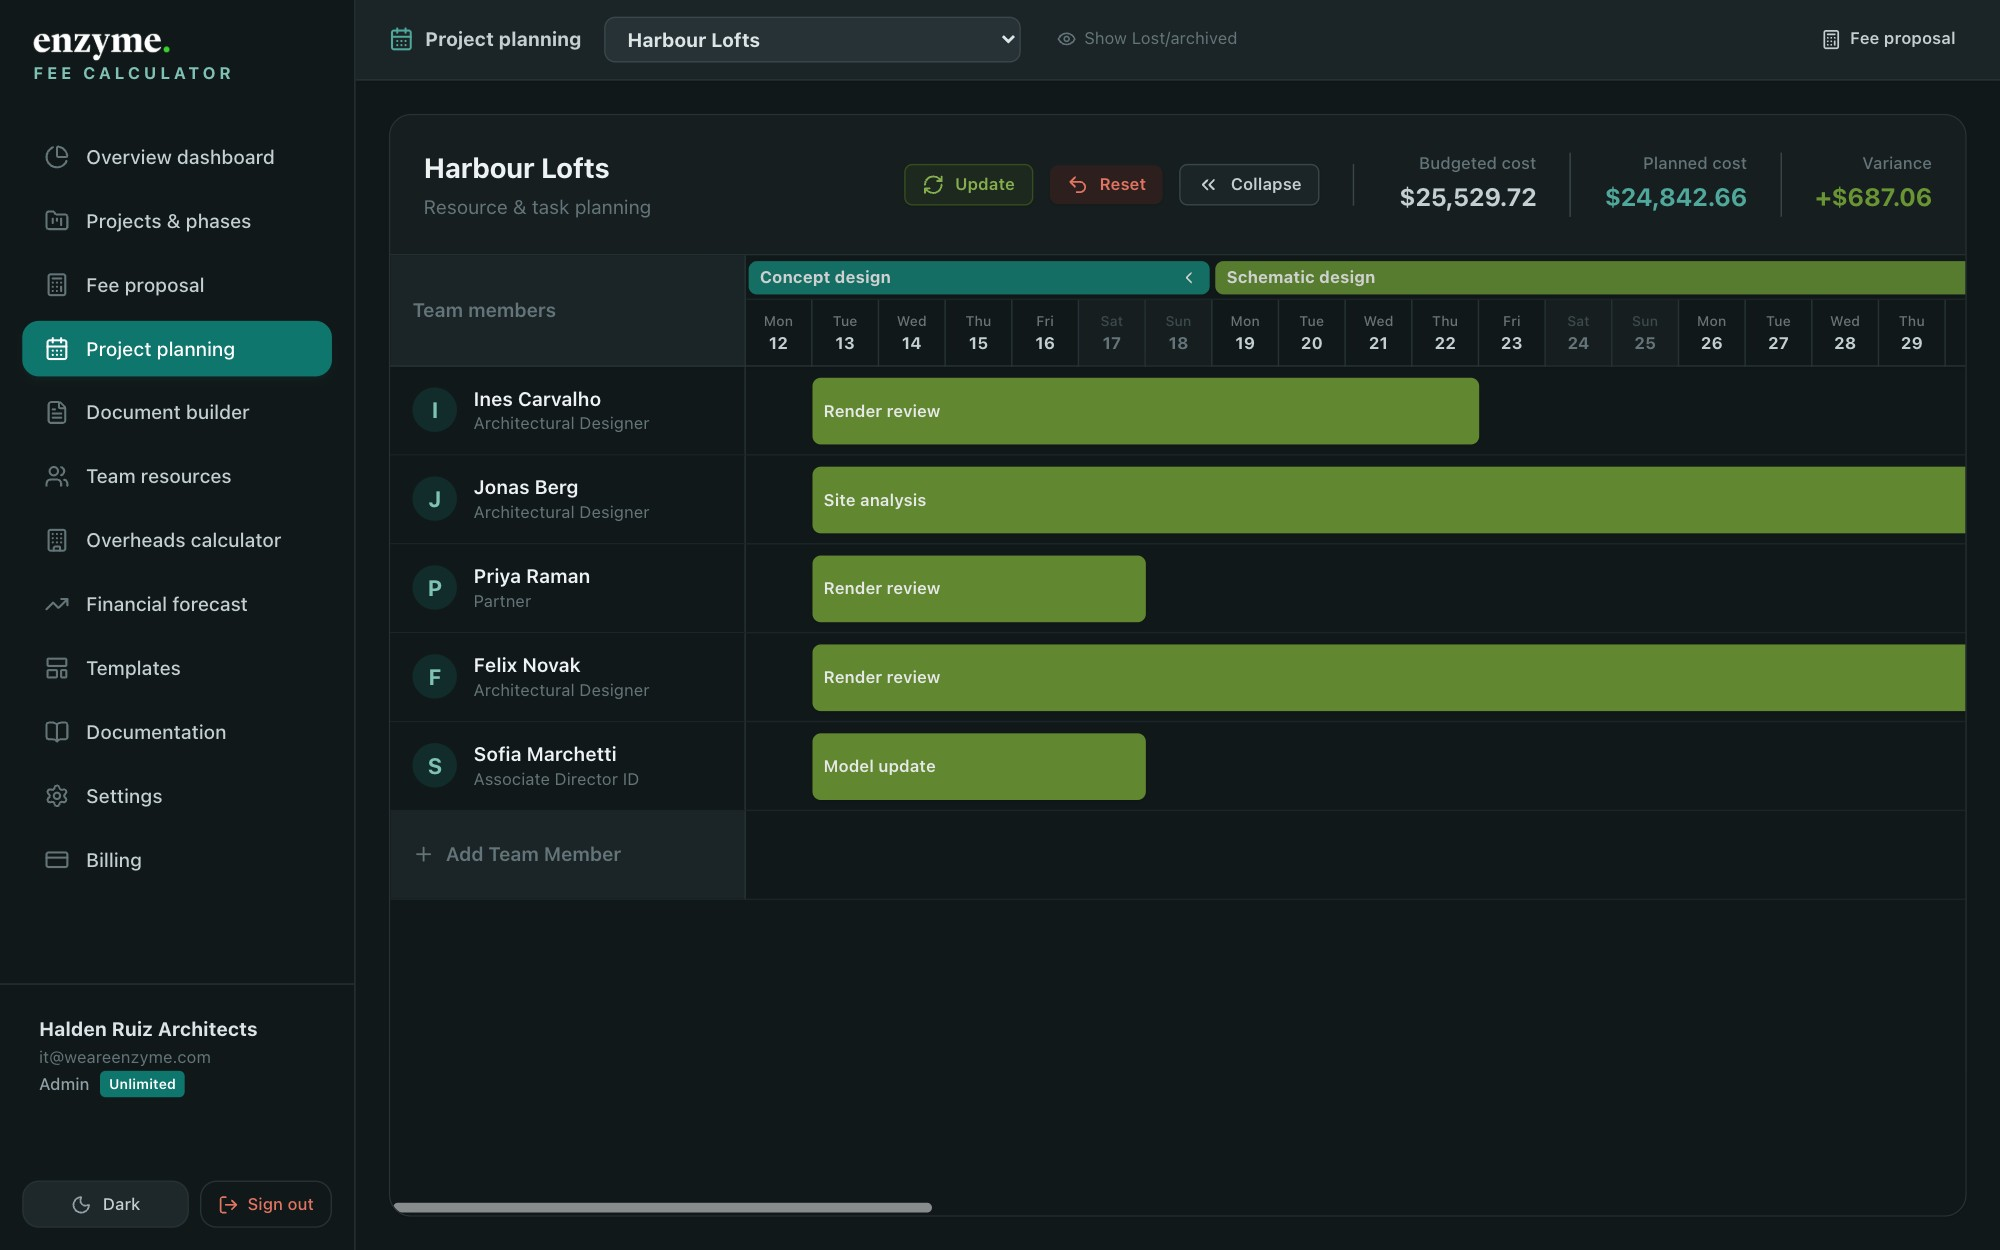
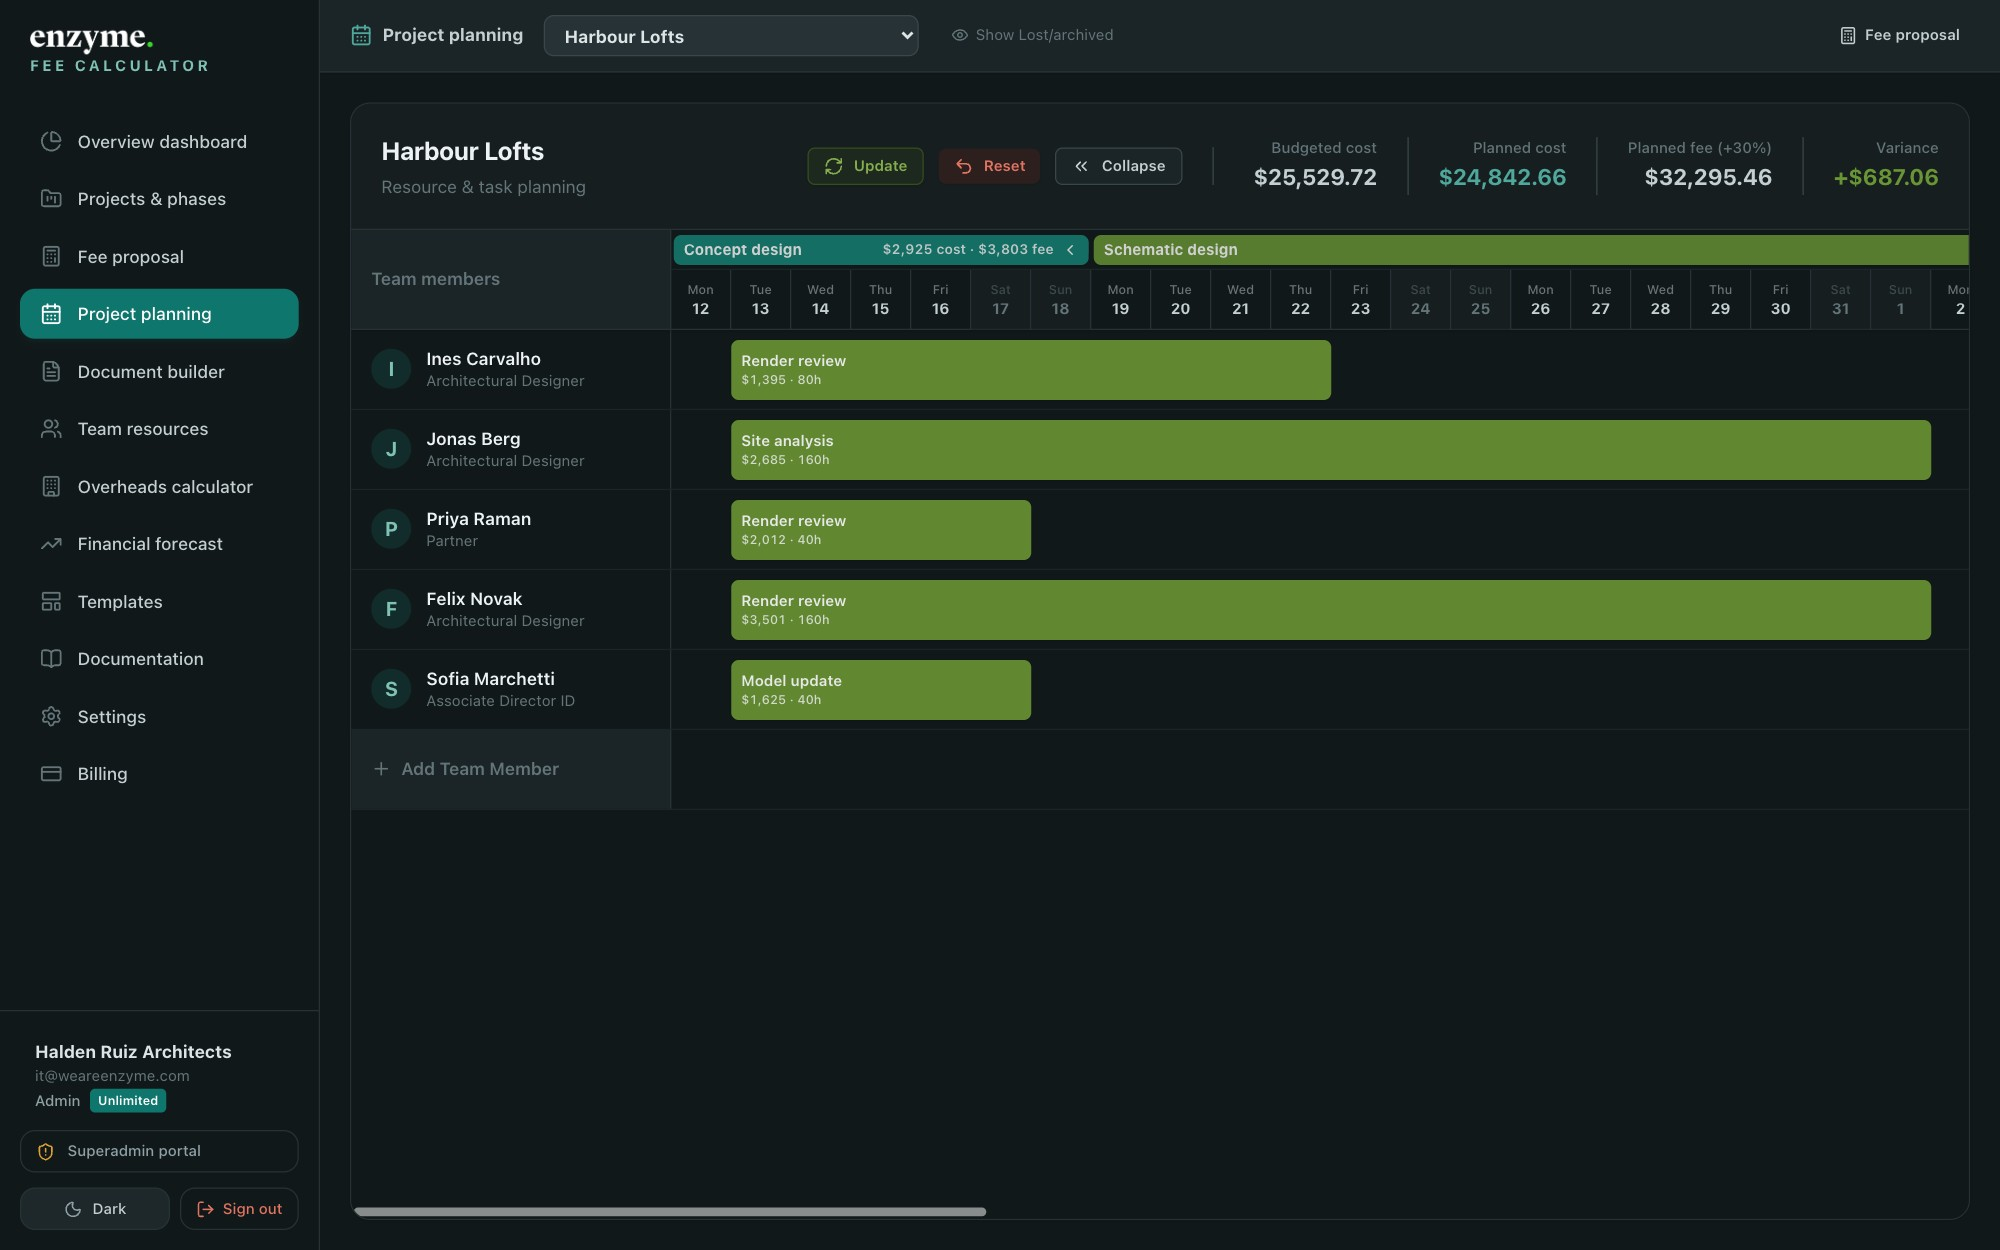
Screenshots: financial forecast, planning with task costs, AI access; on the landing page and in the wiki
- Landing: forecast section shows the real forecast; new walkthrough item for planning with costs
- Wiki: forecast and AI access screenshots, updated planning screenshot
- Demo data only (Halden Ruiz Architects, fictional)

Claude-Session: https://claude.ai/code/session_014QySjCneu45MgJsDEDiNzB

diff --git a/src/components/wiki/WikiContent.tsx b/src/components/wiki/WikiContent.tsx
@@ -368,7 +368,7 @@ export function WikiContent() {
               
               <div className="space-y-6">
                 <div>
-                                    <img src="/screenshots/wiki-planning.jpg?v=20261016" alt="Project Planning Gantt view showing team members assigned to a weekly timeline with budgeted vs planned cost" className="w-full rounded-xl border border-ink-200 dark:border-ink-800 my-6 shadow-sm" />
+                                    <img src="/screenshots/wiki-planning.jpg?v=20261018" alt="Project Planning timeline with each task's cost and hours, phase bars showing cost and fee, and budgeted cost, planned cost and planned fee at the top" className="w-full rounded-xl border border-ink-200 dark:border-ink-800 my-6 shadow-sm" />
                   <h3 className="text-lg font-bold text-ink-800 dark:text-ink-200 mb-2">Generating Tasks</h3>
                   <p className="text-ink-600 dark:text-ink-400 mb-3">
                     When you first open a project in the Planner, you can click <strong className="text-accent-600 dark:text-accent-400">Sync Budget</strong> to instantly create tasks for every team member allocated in the Fee Calculator, distributed across the correct phases.
@@ -685,6 +685,7 @@ export function WikiContent() {
               <p>
                 The <strong>Financial Forecast</strong> is a month-by-month cash plan: money coming in from projects and other income, money going out on salaries, overheads and other costs, and the bank balance that results. It is visible to admins only, because it includes internal salaries and overheads. Every change saves automatically and is shared with the other admins in your company.
               </p>
+              <img src="/screenshots/forecast.jpg?v=20261018" alt="Financial forecast from October to March: project and other income by Invoiced, Possible and Collections, running costs and project expenses in Outflows, and closing bank cash per month" className="w-full rounded-xl border border-ink-200 dark:border-ink-800 my-6 shadow-sm not-prose" />
 
               <h4 className="font-bold text-ink-900 dark:text-ink-200 mt-6 mb-2">How the Table Works</h4>
               <ul className="list-disc pl-5 space-y-2">
@@ -748,6 +749,7 @@ export function WikiContent() {
               <p>
                 You can connect Fee Calculator to an AI assistant such as Claude, ChatGPT or Cursor through MCP (Model Context Protocol), and ask it questions about your practice: &ldquo;Which active projects have the lowest margin?&rdquo;, &ldquo;Summarise the Riverside Library fee by phase&rdquo; or &ldquo;When does our bank cash drop below 50,000?&rdquo;. If you allow it, the assistant can also do the work for you: &ldquo;Create a proposal for Harbour Lofts from the residential template&rdquo;, &ldquo;Add 40 hours for Amara to concept design&rdquo; or &ldquo;Move the stage 2 payment to March&rdquo;.
               </p>
+              <img src="/screenshots/ai-access.jpg?v=20261018" alt="Settings, AI access: company rules for who can connect and make changes, the server address to add in your assistant, connected apps and the list of recent AI changes with Undo" className="w-full rounded-xl border border-ink-200 dark:border-ink-800 my-6 shadow-sm not-prose" />
 
               <h4 className="font-bold text-ink-900 dark:text-ink-200 mt-6 mb-2">Connecting by signing in (recommended)</h4>
               <ul className="list-disc pl-5 space-y-2">

diff --git a/src/app/(marketing)/page.tsx b/src/app/(marketing)/page.tsx
@@ -139,6 +139,12 @@ export default function LandingPage() {
             title: 'Drag, drop, and the fee calculates itself',
             body: 'Drag team members and expenses straight into project phases. Every allocation locks in that rate at the moment you assign it, so a salary change later never retroactively changes a fee you already sent a client.',
           },
+          {
+            img: '/screenshots/wiki-planning.jpg?v=20261018',
+            alt: 'Project planning timeline with the cost and hours of each task, and cost and fee on every phase',
+            title: 'Plan the work and watch what it costs',
+            body: 'Lay out each person’s tasks on a timeline and see the cost of every task, the cost and fee of every phase, and how the plan compares with the budget in the proposal, before the first hour is spent.',
+          },
         ].map((item, i) => (
           <div key={item.title} className={`flex flex-col md:flex-row items-center gap-12 ${i % 2 === 1 ? 'md:flex-row-reverse' : ''}`}>
             <div className="md:w-1/2 w-full">
@@ -184,25 +190,11 @@ export default function LandingPage() {
             </ul>
           </div>
 
-          {/* Illustrative forecast (sample figures) */}
-          <div className="bg-white dark:bg-ink-900 rounded-2xl border border-ink-200 dark:border-ink-800 shadow-xl p-5 sm:p-6" aria-label="Example forecast with sample figures">
-            <div className="flex items-center justify-between mb-4">
-              <span className="text-sm font-semibold text-ink-900 dark:text-ink-100">Closing bank cash</span>
-              <span className="text-xs text-ink-500 dark:text-ink-400">Sample figures</span>
-            </div>
-            <div className="grid grid-cols-6 gap-2 items-end h-40 mb-3">
-              {[{ m: 'Nov', v: 82 }, { m: 'Dec', v: 64 }, { m: 'Jan', v: 41 }, { m: 'Feb', v: 28 }, { m: 'Mar', v: 55 }, { m: 'Apr', v: 73 }].map(b => (
-                <div key={b.m} className="flex flex-col items-center gap-1.5 h-full justify-end">
-                  <span className="text-[11px] tabular-nums text-ink-500 dark:text-ink-400">{b.v}k</span>
-                  <div className={`w-full rounded-t-md ${b.v < 35 ? 'bg-warning-400 dark:bg-warning-500' : 'bg-accent-500 dark:bg-accent-500'}`} style={{ height: `${b.v}%` }} />
-                  <span className="text-xs text-ink-500 dark:text-ink-400">{b.m}</span>
-                </div>
-              ))}
-            </div>
-            <div className="mt-4 rounded-xl bg-warning-50 dark:bg-warning-950/40 border border-warning-200 dark:border-warning-900 px-3 py-2 text-sm text-warning-800 dark:text-warning-200">
-              February drops to 28k: move the stage 2 invoice forward or chase the January collection.
-            </div>
-          </div>
+          <img
+            src="/screenshots/forecast.jpg?v=20261018"
+            alt="Financial forecast from October to March with project income by stage, running costs and project expenses, and closing bank cash per month"
+            className="w-full h-auto rounded-2xl border border-ink-200 dark:border-ink-800 shadow-xl"
+          />
         </div>
       </section>
 
